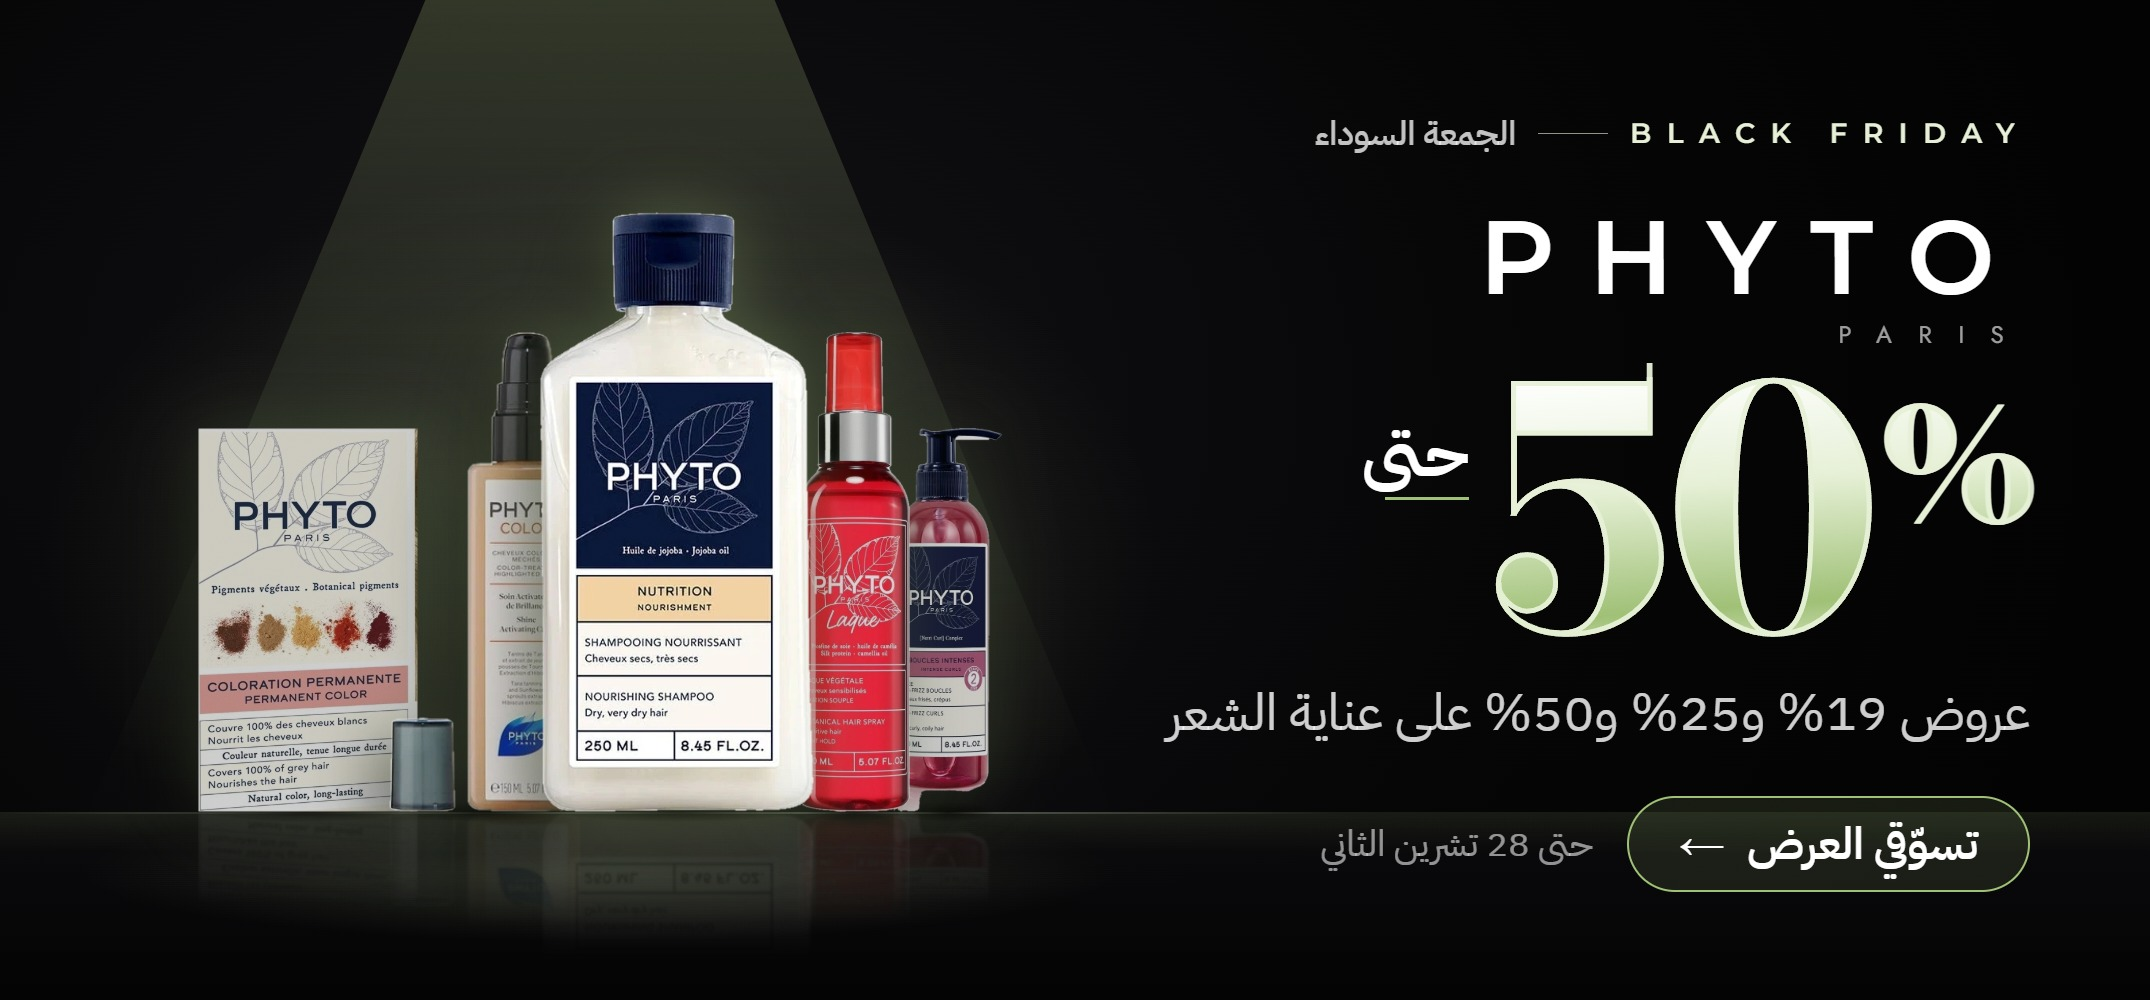
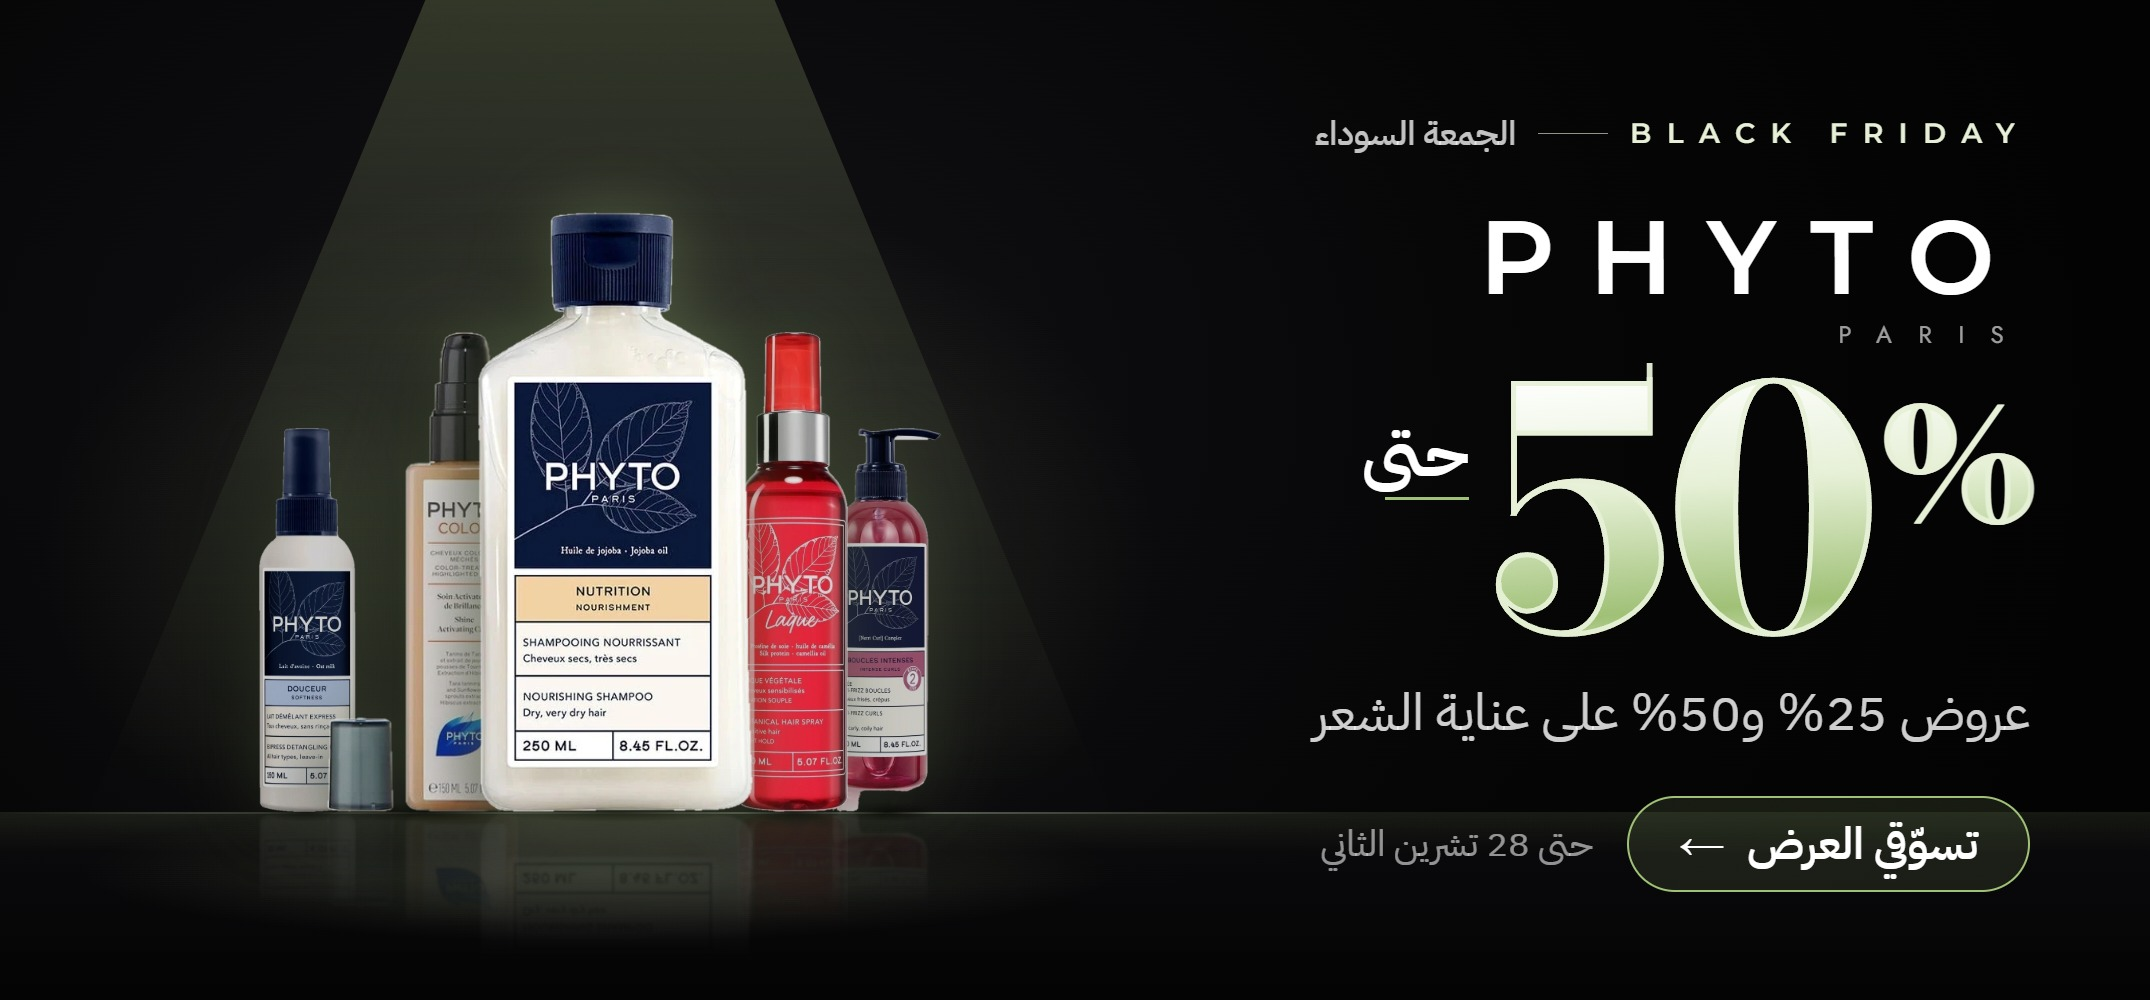
Black Friday archive: drop Phyto 19%, schedule the campaign's end

diff --git a/category-icons/black-friday-2026/schedule.js b/category-icons/black-friday-2026/schedule.js
@@ -1,0 +1,70 @@
+// بعد النشر: إزالة عرض فيتو 19%، بنر فيتو العلوي الجديد، وجدولة انتهاء أقسام الجمعة السوداء.
+const fs = require('fs');
+const jwt = require('jsonwebtoken');
+const { PrismaClient } = require('@prisma/client');
+const prisma = new PrismaClient();
+const API = 'http://127.0.0.1:3000/api/v1';
+const ENDS = '2026-11-28T20:59:59.000Z';
+const TAG = 'BF2026';
+const created = JSON.parse(fs.readFileSync('/data/uploads/bf-2026-11-created.json', 'utf8'));
+const rollback = JSON.parse(fs.readFileSync('/data/uploads/bf-2026-11-rollback.json', 'utf8'));
+
+(async () => {
+  const admin = await prisma.user.findFirst({ where: { role: 'SUPER_ADMIN', isActive: true, deletedAt: null } });
+  const token = jwt.sign({ sub: admin.id, role: admin.role }, process.env.JWT_ACCESS_SECRET || 'access', { expiresIn: '1h' });
+  const H = { Authorization: `Bearer ${token}`, 'X-SSR': 'deema-web' };
+  const call = async (m, p, b) => {
+    const r = await fetch(API + p, { method: m, headers: { ...H, 'Content-Type': 'application/json' }, body: b ? JSON.stringify(b) : undefined });
+    const t = await r.text();
+    if (!r.ok) throw new Error(`${m} ${p} ${r.status} ${t.slice(0, 300)}`);
+    const j = JSON.parse(t || '{}');
+    return j.data !== undefined ? j.data : j;
+  };
+
+  // 1) بنر فيتو العلوي بلا 19%
+  const name = 'bf26-hero_phyto-v2.jpg';
+  let heroId = (await prisma.media.findFirst({ where: { originalName: name }, select: { id: true } }))?.id;
+  if (!heroId) {
+    const fd = new FormData();
+    fd.append('purpose', 'BANNER');
+    fd.append('file', new Blob([fs.readFileSync('/tmp/bf/hero_phyto.jpg')], { type: 'image/jpeg' }), name);
+    const r = await fetch(API + '/media/upload', { method: 'POST', headers: H, body: fd });
+    const t = await r.text();
+    if (!r.ok) throw new Error('upload ' + t.slice(0, 200));
+    heroId = (JSON.parse(t).data || JSON.parse(t)).id;
+  }
+  const phytoHero = await prisma.banner.findFirst({ where: { title: 'فيتو — الجمعة السوداء' } });
+  await call('PATCH', `/banners/${phytoHero.id}`, { title: phytoHero.title, imageId: heroId });
+  console.log('phyto hero image replaced');
+
+  // 2) مجموعات الجمعة السوداء: إزالة عرض فيتو 19% + الاختفاء بعد 28/11
+  const groups = (await prisma.homeBlock.findMany({ where: { type: 'SECTION_GROUP' } })).filter((b) => String(b.payload?.titleEn || '').startsWith(TAG));
+  for (const g of groups) {
+    const p = JSON.parse(JSON.stringify(g.payload));
+    const i = (p.children || []).findIndex((c) => c.type === 'CUSTOM_BANNER' && c.payload?.imageId === created.media.o_phyto_19);
+    if (i >= 0) { p.children.splice(i, 2); console.log('removed phyto 19% from', g.id.slice(0, 8), g.worldId ? 'world' : 'offers tab'); }
+    p.visibleUntil = ENDS;
+    await call('PATCH', `/home-blocks/${g.id}`, { payload: p });
+  }
+  console.log('groups scheduled', groups.length);
+
+  // 3) شريط العروض: نسخة الجمعة السوداء تنتهي، والنص الأصلي يعود بعدها في المكان نفسه
+  for (const old of rollback.blocks.filter((b) => b.type === 'PROMO_STRIP' && /20\s*[%٪]/.test(b.payload?.text || ''))) {
+    const cur = await prisma.homeBlock.findUnique({ where: { id: old.id } });
+    await call('PATCH', `/home-blocks/${cur.id}`, { payload: { ...cur.payload, visibleUntil: ENDS } });
+    const title = old.title;
+    let back = await prisma.homeBlock.findFirst({ where: { worldId: old.worldId, type: 'PROMO_STRIP', title, id: { not: old.id } } });
+    const payload = { ...old.payload, visibleFrom: ENDS };
+    if (back) await call('PATCH', `/home-blocks/${back.id}`, { payload, isActive: true });
+    else back = await call('POST', '/home-blocks', { type: 'PROMO_STRIP', title, payload, pageKey: 'HOME', worldId: old.worldId, position: cur.position, isActive: true });
+    const blocks = await prisma.homeBlock.findMany({ where: { worldId: old.worldId, pageKey: 'HOME', isActive: true }, orderBy: { position: 'asc' }, select: { id: true } });
+    const ids = blocks.map((b) => b.id).filter((id) => id !== back.id);
+    ids.splice(ids.indexOf(cur.id) + 1, 0, back.id);
+    await call('POST', '/home-blocks/reorder', { ids });
+    console.log('strip scheduled', cur.id.slice(0, 8), '→ original returns', back.id.slice(0, 8));
+  }
+
+  await prisma.$disconnect();
+  console.log('done');
+  process.exit(0);
+})().catch(async (e) => { console.error(e); await prisma.$disconnect(); process.exit(1); });

diff --git a/category-icons/black-friday-2026/gen.js b/category-icons/black-friday-2026/gen.js
@@ -70,7 +70,7 @@ const DESIGNS = [
   { key: 'o_lierac_50', brand: 'lierac', kind: 'offer', pct: 50, sub: 'على واقيات سونيسيم ولِفت إنتغرال', pick: ['lierac_50:1', 'lierac_50:0', 'lierac_50:3', 'lierac_50:2', 'lierac_50:4'] },
   { key: 'o_lierac_25', brand: 'lierac', kind: 'offer', pct: 25, sub: 'على مجموعة بريميوم وهيدراجينست', pick: ['lierac_25:0', 'lierac_25:1', 'lierac_25:2', 'lierac_25:4', 'lierac_25:3'] },
   // PHYTO
-  { key: 'hero_phyto', brand: 'phyto', kind: 'hero', pct: 50, sub: 'عروض 19% و25% و50% على عناية الشعر', pick: ['phyto_25:0', 'phyto_25:2', 'phyto_50:1', 'phyto_25:1', 'phyto_19:2'] },
+  { key: 'hero_phyto', brand: 'phyto', kind: 'hero', pct: 50, sub: 'عروض 25% و50% على عناية الشعر', pick: ['phyto_25:0', 'phyto_25:2', 'phyto_50:1', 'phyto_25:1', 'phyto_25:3'] },
   { key: 'o_phyto_50', brand: 'phyto', kind: 'offer', pct: 50, sub: 'على أمبولات فيتوسيان ومعزز اللمعان', pick: ['phyto_50:0', 'phyto_50:1'], h: 560 },
   { key: 'o_phyto_25', brand: 'phyto', kind: 'offer', pct: 25, sub: 'على شامبوهات وعلاجات فيتو للشعر', pick: ['phyto_25:0', 'phyto_25:1', 'phyto_25:2', 'phyto_25:3'] },
   { key: 'o_phyto_19', brand: 'phyto', kind: 'offer', pct: 19, sub: 'على صبغات فيتوكولور الخالية من الأمونيا', pick: ['phyto_19:2', 'phyto_19:0', 'phyto_19:3'] },

diff --git a/category-icons/black-friday-2026/README.md b/category-icons/black-friday-2026/README.md
@@ -4,8 +4,10 @@
 
 - `hero_*` بنرات أعلى العالم (تنتهي وحدها 28/11 نهاية اليوم).
 - `o_<brand>_<pct>` بنر لكل عرض داخل مجموعة البراند، يليه منتجات العرض.
-- العوالم: طقوس العناية (ليراك، بيوديرما، فيتو، بيزلين، ريفوكس، ديرمولاب)، سحر الجمال (ديبورا، ريبيلا)، وكلها في تبويب العروض.
+- العوالم: طقوس العناية (ليراك، بيوديرما، فيتو (25% و50% — أُزيل إعلان 19% بطلب المالك)، بيزلين، ريفوكس، ديرمولاب)، سحر الجمال (ديبورا، ريبيلا)، وكلها في تبويب العروض.
 
 إعادة البناء: `trim.js` ← `cutout.js` (قص بشفافية: نموذج محلي + تعبئة الخلفية البيضاء؛ `--rect=` للعلب و`--hull=` للأنابيب البيضاء) ← `gen.js` ← `publish.js` داخل حاوية الـ API.
 لقطة الرجوع على السيرفر: `/data/uploads/bf-2026-11-rollback.json`، وما أُنشئ: `/data/uploads/bf-2026-11-created.json`.
 كل ما أُضيف يحمل `BF2026` في `titleEn` لتنظيفه بعد العرض.
+
+الانتهاء تلقائي: البنرات العلوية endsAt، والأقسام visibleUntil، وشريط العروض الأصلي يعود بـ visibleFrom (كلها 28/11 23:59 بغداد) — .
